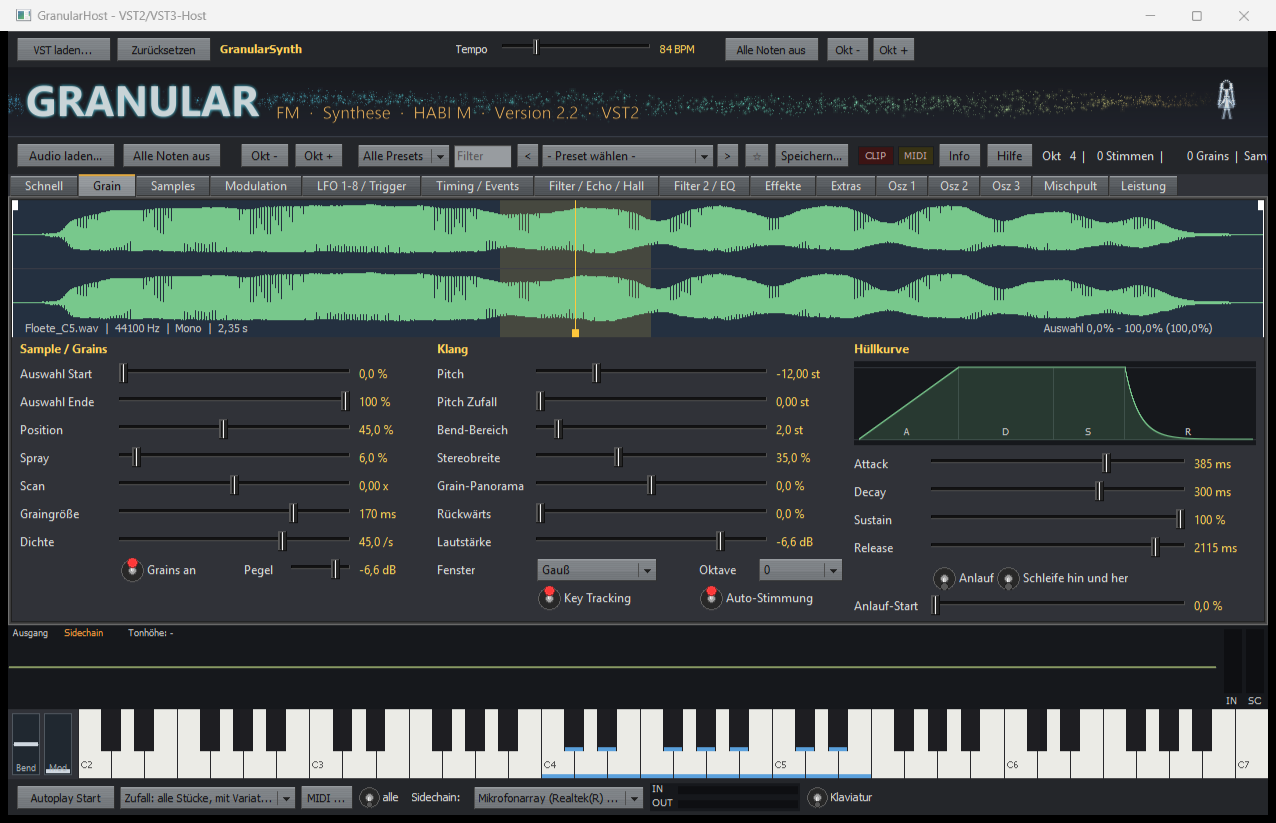
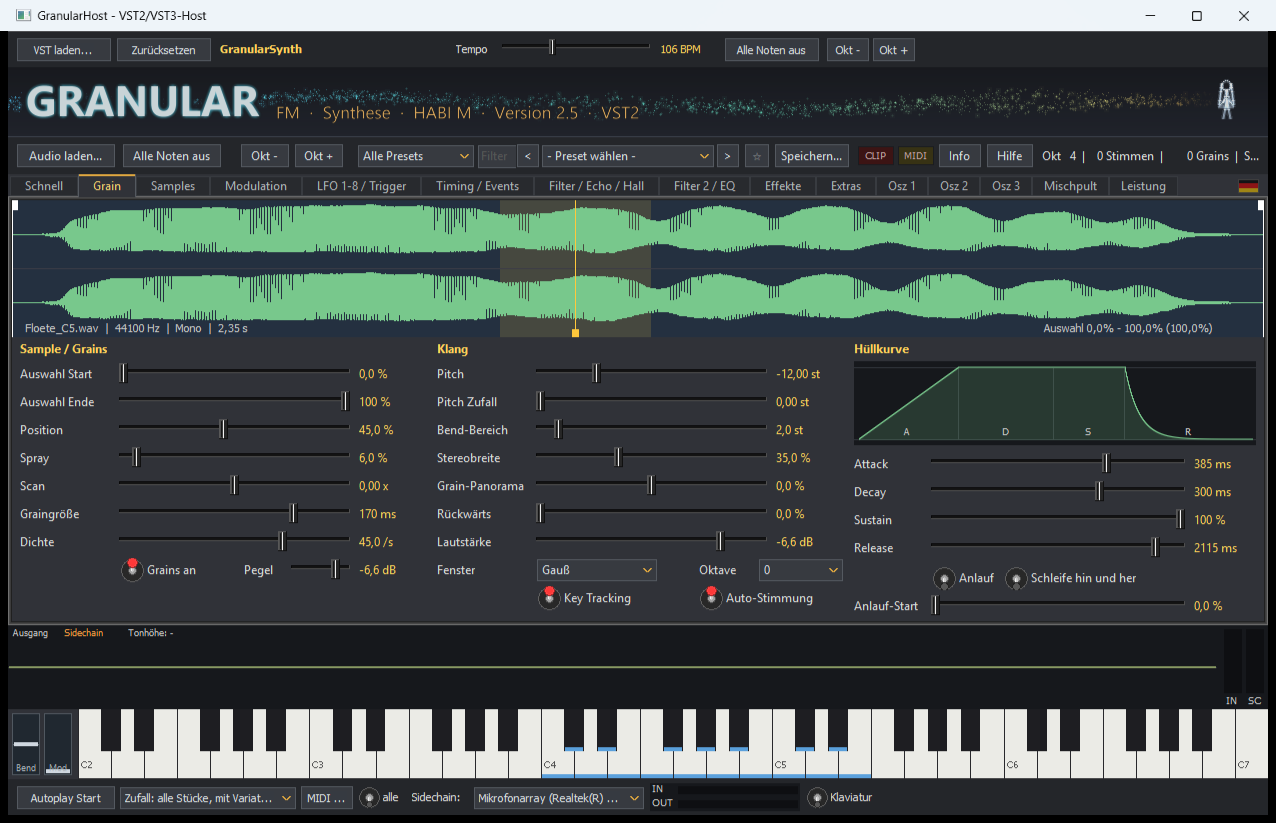
Hilfe, Readmes und Bildschirmfotos auf Stand 2.5

diff --git a/Tools/Hilfe_Reglertabelle.py b/Tools/Hilfe_Reglertabelle.py
@@ -73,7 +73,7 @@ TABS = [
 ]),
 ("Reiter Modulation", [
  ("Freie Makros", "rechts neben der Matrix: vier Regler Makro 1-4, jeder bewegt beliebig viele Ziele. Ziel zuweisen: Rechtsklick auf einen Regler > Modulieren mit > Makro n (oder eine Matrix-Zeile mit Quelle \"Makro n\"); Menge, Faktor und Offset je Ziel. Kurve je Makro: Linear, Langsam ansteigend, Schnell ansteigend, S-Kurve. Unter jedem Makro stehen seine Ziele. Ideal für die DAW-Automation: eine Spur bewegt viele Regler. Lern-Presets L35-L37."),
- ("Modulationsmatrix", "32 Zeilen auf vier Seiten (Knöpfe oben rechts, in Klammern: benutzte Zeilen; \"Modulieren mit\" im Rechtsklick-Menü nimmt immer die oberste freie Zeile). Jede Zeile: Quelle -> Ziel mit Menge, Faktor und Offset. Die leuchtende Anzeige vorne pulsiert mit der Quelle. Noten-Quellen (Velocity, Note, Zufall je Note, Grain-, Filter- und Osz1-3-Hüllkurve - jede f\u00fcr sich -, LFOs mit Neustart bei Note an/aus) wirken je Note: jede Stimme hat ihre eigenen LFOs und eigenen Werte für Grain-Regler, Tonhöhe, Lautstärke, Oszillator, Filter, alle Huellkurven-Zeiten, Scan, Filter-Konturen und die LFO-Raten - eine neue Note verändert die klingenden nicht. Ziele, die es nur einmal gibt (Echo, Hall, EQ, Sättigung, Breite, Summen-Panorama, Morph, Arp, Tor), folgen der zuletzt angeschlagenen Note; die Zeile zeigt dann 'global: letzte Note'."),
+ ("Modulationsmatrix", "32 Zeilen auf vier Seiten (Knöpfe oben rechts, in Klammern: benutzte Zeilen; \"Modulieren mit\" im Rechtsklick-Menü nimmt immer die oberste freie Zeile). Jede Zeile: Quelle -> Ziel mit Menge, Faktor und Offset. Die leuchtende Anzeige vorne pulsiert mit der Quelle. Noten-Quellen (Velocity, Note, Zufall je Note, Grain-, Filter- und Osz1-3-Hüllkurve - jede f\u00fcr sich -, LFOs mit Neustart bei Note an/aus) wirken je Note: jede Stimme hat ihre eigenen LFOs und eigenen Werte für Grain-Regler, Tonhöhe, Lautstärke, Oszillator, Filter, alle Huellkurven-Zeiten, Scan, Filter-Konturen und die LFO-Raten - eine neue Note verändert die klingenden nicht. Ziele, die es nur einmal gibt (Echo, Hall, EQ, Sättigung, Breite, Summen-Panorama, Morph, Arp, Tor), folgen der zuletzt angeschlagenen Note; die Zeile zeigt dann 'global: letzte Note'. Der Papierkorb am Zeilenende leert die Zeile (Strg+Z nimmt es zur\u00fcck)."),
  ("Glide / Zeit", "Portamento: T\u00f6ne gleiten ineinander (Aus / Immer / Nur legato), Zeit = Dauer des Gleitens."),
 ]),
 ("Reiter LFO 1-8 / Trigger", [
@@ -122,6 +122,7 @@ TABS = [
  ("Leuchten", "der Hintergrund zeigt den Ausgang: blau/wei\u00df nach Pegel, blauer wo der EQ absenkt, r\u00f6ter wo er anhebt."),
 ]),
 ("Reiter Extras", [
+ ("Sprache / Language", "Sprache der Oberfl\u00e4che (Deutsch, English, weitere als Datei im Ordner Sprachen). Schneller: Klick auf die kleine Flagge rechts in der Reiterzeile schaltet zur n\u00e4chsten Sprache."),
  ("Arpeggiator", "gehaltene Tasten nacheinander: Richtung, Oktaven, Notenwert, L\u00e4nge, Swing, Schritte und Schrittmuster (Klick = Schritt an/aus)."),
  ("Latch", "wie beim microKORG: losgelassene Tasten spielen im Arp weiter, bis neue Tasten angeschlagen werden - der neue Akkord ersetzt den alten. Solange Tasten gedrückt sind, kommen weitere dazu. Stoppen: Latch aus oder \"Alle Noten aus\"."),
  ("Tonleiter / Grundton", "alle Tonh\u00f6hen rasten auf die T\u00f6ne der Tonleiter ein - nie ein falscher Ton."),
@@ -158,7 +159,7 @@ TABS = [
 ]),
 ]
 
-NO = {"Zonen 1-3", "Aufnahme", "Kategorie / Stern", "Wiederholen", "Lastliste", "Zeiger / Laufzeit", "Audio laden...", "Alle Noten aus", "Okt - / Okt +", "Preset w\u00e4hlen, < >", "Speichern...", "CLIP / MIDI",
+NO = {"Sprache / Language", "Zonen 1-3", "Aufnahme", "Kategorie / Stern", "Wiederholen", "Lastliste", "Zeiger / Laufzeit", "Audio laden...", "Alle Noten aus", "Okt - / Okt +", "Preset w\u00e4hlen, < >", "Speichern...", "CLIP / MIDI",
       "Info", "Hilfe", "Statuszeile", "Autoplay, Haken \u201ealle\u201c", "Variieren / St\u00e4rke / Gesperrt", "A/B", "Spektrum", "Kurve", "Leuchten",
       "Ziel B merken / laden / l\u00f6schen", "A <-> B tauschen"}
 PART = {"Bend / Mod": "MIDI", "Latch": "Arp Latch", "Arpeggiator": "ja (Muster: nein)", "LFO 1 bis 8: Rate, Form, Sync": "ja (freie Form: nein)",

diff --git a/README.md b/README.md
@@ -3,7 +3,7 @@
 **Granular- und FM-Synthesizer als VST2- und VST3-Plugin für Windows (32 und 64 Bit)**, mit eigenem Test-Host.
 Geschrieben in Delphi, ohne Plugin-Framework. Die rechenintensiven Teile sind von Hand in SSE-Assembler optimiert, damit die CPU-Last niedrig bleibt.
 
-*Granular and FM synthesizer plugin (VST2/VST3, Windows 32/64 bit) with its own test host. **English user interface and help** from version 2.3 (switch: Extras tab › „Sprache / Language“); see [README_EN.txt](README_EN.txt).*
+*Granular and FM synthesizer plugin (VST2/VST3, Windows 32/64 bit) with its own test host. **English user interface and help** from version 2.3 (switch: Extras tab › „Sprache / Language“ or the small flag in the tab row); see [README_EN.txt](README_EN.txt).*
 
 ![Reiter Grain](docs/screenshots/grain.png)
 
@@ -16,6 +16,7 @@ Geschrieben in Delphi, ohne Plugin-Framework. Die rechenintensiven Teile sind vo
 - **Effekte**: zwei Filter, EQ, Echo, Hall, Gate, Crusher, Chorus, Phaser und Trance-Gate. Dazu ein Mischpult mit Pegelanzeigen.
 - **Sidechain**: Tonhöhe erkennen (Auto-Pitch), Trigger aus Pegel und Ton, Aufnahme.
 - **Morph**: zwischen zwei kompletten Klängen überblenden.
+- **Oberfläche auf Deutsch oder Englisch**, umschaltbar per Klick auf die Flagge.
 - **Bedienung**: MIDI-Learn, Rückgängig/Wiederholen, A/B-Vergleich, Variieren, Preset-Kategorien und Favoriten. Presets lassen sich mit eingebetteten Samples speichern.
 - **Mitgeliefert**: über 160 Presets, darunter ein **Lernpfad (L01–L37)**, der die Matrix Schritt für Schritt erklärt. Dazu Beispieltöne und eine ausführliche Hilfe.
 - **GranularHost**: ein kleiner Test-Host für VST2 und VST3 mit Klaviatur, Autoplay, Audio-Ein- und -Ausgang, Sidechain und einem Prüfstand (`-bench`).
@@ -23,6 +24,10 @@ Geschrieben in Delphi, ohne Plugin-Framework. Die rechenintensiven Teile sind vo
 ![Modulationsmatrix und freie Makros](docs/screenshots/modulation.png)
 
 ![Mischpult](docs/screenshots/mischpult.png)
+
+*English interface / englische Oberfläche:*
+
+![English user interface](docs/screenshots/modulation_en.png)
 
 ## Installation
 
